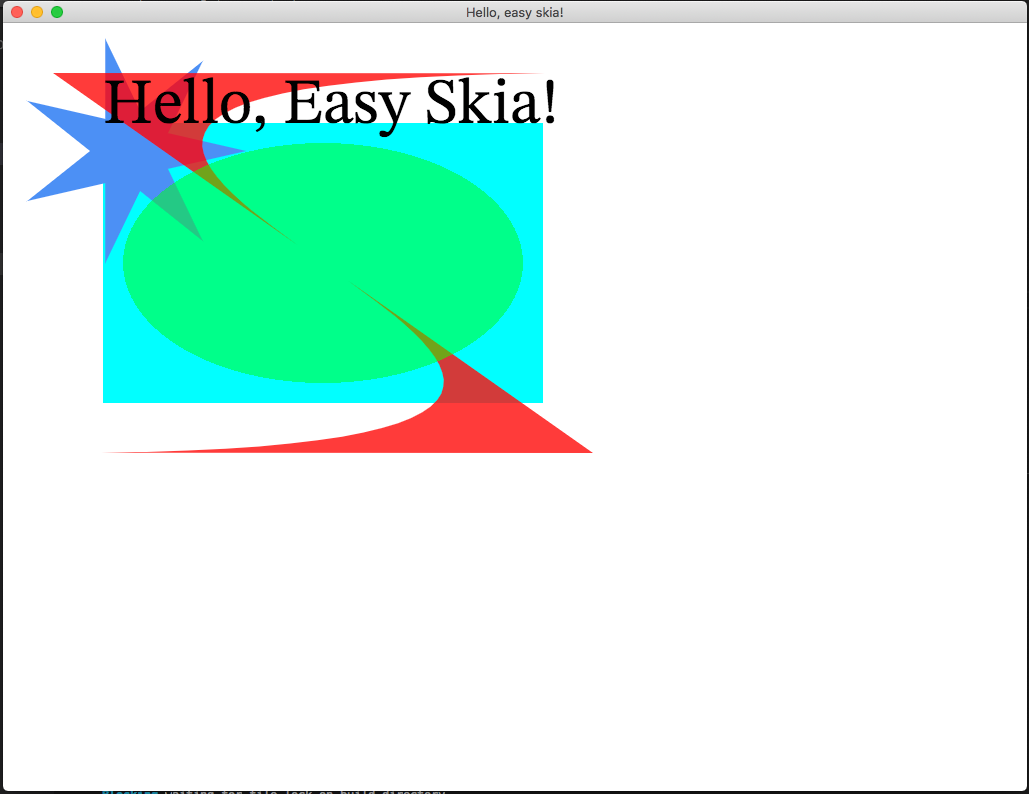
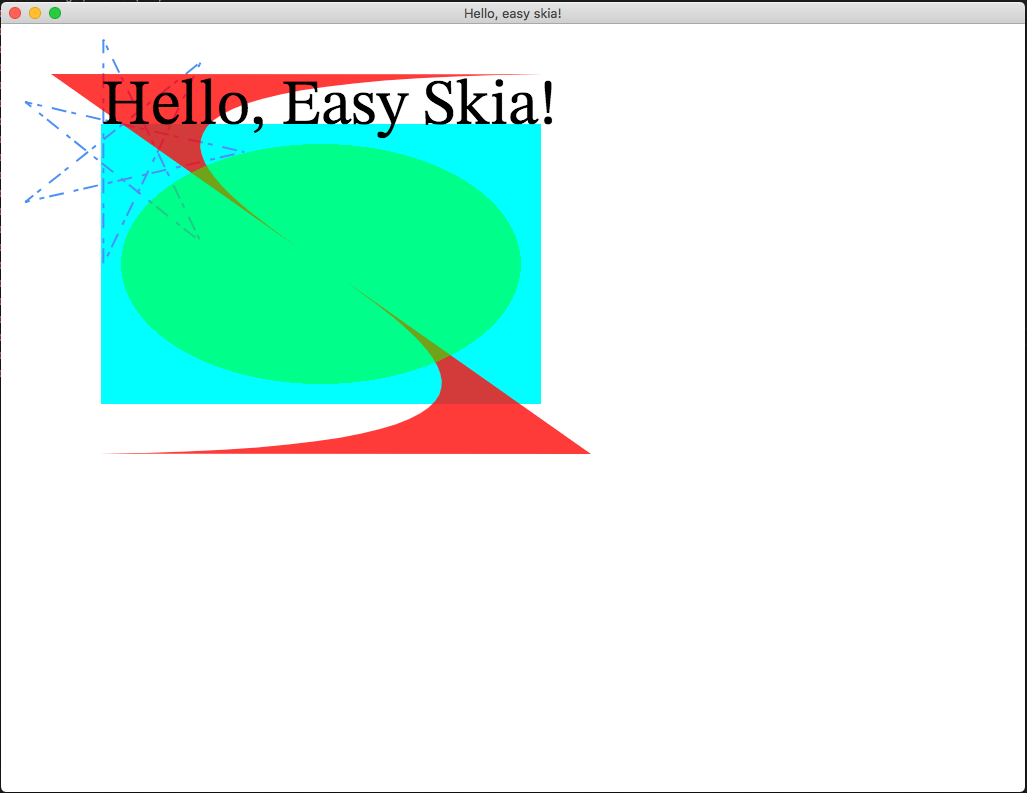
feat(api): wrap PathEffect

diff --git a/src/path_effect.rs b/src/path_effect.rs
@@ -1,0 +1,70 @@
+pub use bindings::sk_path_effect_1d_style_t as PathEffect1dStyle;
+pub use bindings::sk_path_effect_trim_mode_t as PathEffectTrimMode;
+use bindings::*;
+use {wrap_safe_type, Matrix, Path};
+
+pub struct PathEffect {
+  pub(crate) raw_pointer: *mut sk_path_effect_t,
+}
+
+impl Drop for PathEffect {
+  fn drop(&mut self) {
+    unsafe { sk_path_effect_unref(self.raw_pointer) }
+  }
+}
+
+impl PathEffect {
+  pub fn create_compose(outter: &mut Self, inner: &mut Self) -> Self {
+    wrap_safe_type! {
+      PathEffect <= sk_path_effect_create_compose(outter.raw_pointer, inner.raw_pointer)
+    }
+  }
+
+  pub fn create_sum(first: &mut Self, second: &mut Self) -> Self {
+    wrap_safe_type! {
+      PathEffect <= sk_path_effect_create_sum(first.raw_pointer, second.raw_pointer)
+    }
+  }
+
+  pub fn create_discrete(seg_len: f32, deviation: f32, seed_assist: u32) -> Self {
+    wrap_safe_type! {
+      PathEffect <= sk_path_effect_create_discrete(seg_len, deviation, seed_assist)
+    }
+  }
+
+  pub fn create_corner(radius: f32) -> Self {
+    wrap_safe_type! {
+      PathEffect <= sk_path_effect_create_corner(radius)
+    }
+  }
+
+  pub fn create_1d_path(path: &Path, advance: f32, phase: f32, style: PathEffect1dStyle) -> Self {
+    wrap_safe_type! {
+      PathEffect <= sk_path_effect_create_1d_path(path.raw_pointer, advance, phase, style)
+    }
+  }
+
+  pub fn create_2d_line(width: f32, matrix: &Matrix) -> Self {
+    wrap_safe_type! {
+      PathEffect <= sk_path_effect_create_2d_line(width, matrix)
+    }
+  }
+
+  pub fn create_2d_path(matrix: &Matrix, path: &Path) -> Self {
+    wrap_safe_type! {
+      PathEffect <= sk_path_effect_create_2d_path(matrix, path.raw_pointer)
+    }
+  }
+
+  pub fn create_dash(intervals: &[f32], phase: f32) -> Self {
+    wrap_safe_type! {
+      PathEffect <= sk_path_effect_create_dash(intervals.as_ptr(), intervals.len() as i32, phase)
+    }
+  }
+
+  pub fn create_trim(start: f32, stop: f32, mode: PathEffectTrimMode) -> Self {
+    wrap_safe_type! {
+      PathEffect <= sk_path_effect_create_trim(start, stop, mode)
+    }
+  }
+}

diff --git a/src/paint.rs b/src/paint.rs
@@ -3,8 +3,8 @@ use std::os::raw::c_void;
 use bindings::*;
 use color::Color;
 use {
-  wrap_safe_type, ColorFilter, ImageFilter, MaskFilter, Path, Point, Rect, Shader, TextBlob,
-  Typeface,
+  wrap_safe_type, ColorFilter, ImageFilter, MaskFilter, Path, PathEffect, Point, Rect, Shader,
+  TextBlob, Typeface,
 };
 
 pub use bindings::sk_blendmode_t as BlendMode;
@@ -12,7 +12,6 @@ pub use bindings::sk_filter_quality_t as FilterQuality;
 pub use bindings::sk_fontmetrics_t as FontMetrics;
 pub use bindings::sk_paint_hinting_t as PaintHinting;
 pub use bindings::sk_paint_style_t as PaintStyle;
-pub use bindings::sk_path_effect_t as PathEffect;
 pub use bindings::sk_stroke_cap_t as StrokeCap;
 pub use bindings::sk_stroke_join_t as StrokeJoin;
 pub use bindings::sk_text_align_t as TextAlign;
@@ -160,12 +159,14 @@ impl Paint {
     (recommend_space, font_metrics)
   }
 
-  pub fn get_path_effect(&mut self) -> &PathEffect {
-    unsafe { &*sk_paint_get_path_effect(self.raw_pointer) }
+  pub fn get_path_effect(&mut self) -> PathEffect {
+    wrap_safe_type! {
+      PathEffect <= sk_paint_get_path_effect(self.raw_pointer)
+    }
   }
 
   pub fn set_path_effect(&mut self, effect: &mut PathEffect) -> &mut Self {
-    unsafe { sk_paint_set_path_effect(self.raw_pointer, effect) };
+    unsafe { sk_paint_set_path_effect(self.raw_pointer, effect.raw_pointer) };
     self
   }
   pub fn is_linear_text(&self) -> bool {

diff --git a/examples/hello.rs b/examples/hello.rs
@@ -87,10 +87,13 @@ fn draw(canvas: &mut Canvas) {
     );
 
     let mut stroke = Paint::new();
+    let mut dpe = PathEffect::create_dash(&[15., 5., 5., 10.], 25.0);
     stroke
         .set_color(Color::from_u32(0xff4285F4))
         .set_antialias(true)
-        .set_stroke_width(2.);
+        .set_style(PaintStyle::STROKE_SK_PAINT_STYLE)
+        .set_stroke_width(2.)
+        .set_path_effect(&mut dpe);
 
     let mut path = Path::new();
     let r: f32 = 115.2;
@@ -100,10 +103,13 @@ fn draw(canvas: &mut Canvas) {
         let a = 2.6927937 * i as f32;
         path.line_to(c + r * a.cos(), c + r * a.sin());
     }
+
     canvas.draw_path(&path, &stroke);
 
     let mut path = Path::new();
-    stroke.set_color(Color::from_u32(0xccff0000));
+    stroke
+        .set_color(Color::from_u32(0xccff0000))
+        .set_style(PaintStyle::FILL_SK_PAINT_STYLE);
     path.move_to(50., 50.)
         .line_to(590., 50.)
         .cubic_to(-490., 50., 1130., 430., 50., 430.)

diff --git a/sk_includes.h b/sk_includes.h
@@ -10,6 +10,7 @@
 #include "skia/include/c/sk_matrix.h"
 #include "skia/include/c/sk_paint.h"
 #include "skia/include/c/sk_path.h"
+#include "skia/include/c/sk_patheffect.h"
 #include "skia/include/c/sk_picture.h"
 #include "skia/include/c/sk_region.h"
 #include "skia/include/c/sk_shader.h"

diff --git a/src/lib.rs b/src/lib.rs
@@ -41,6 +41,8 @@ mod text_blob;
 pub use self::text_blob::*;
 mod sk_string;
 pub use self::sk_string::*;
+mod path_effect;
+pub use self::path_effect::*;
 
 pub use bindings::gr_pixelconfig_t as GrPixelConfig;
 pub use bindings::sk_alphatype_t as AlphaType;

diff --git a/src/drawable.rs b/src/drawable.rs
@@ -1,5 +1,5 @@
 use bindings::*;
-use {unwrap_raw_pointer, wrap_safe_type, Canvas, Matrix, Picture, Rect};
+use {wrap_safe_type, Canvas, Matrix, Picture, Rect};
 
 pub struct Drawable {
   pub(crate) raw_pointer: *mut sk_drawable_t,

diff --git a/README.md b/README.md
@@ -24,7 +24,7 @@ clone this repo and run `cargo run  --example hello` get a demo like below:
   - [ ] pdf
   - [ ] svg
   - [ ] xps
-- [ ] ci
+- [x] ci
 - [ ] Animation Player
 
 ### I need help (Contibuting)
